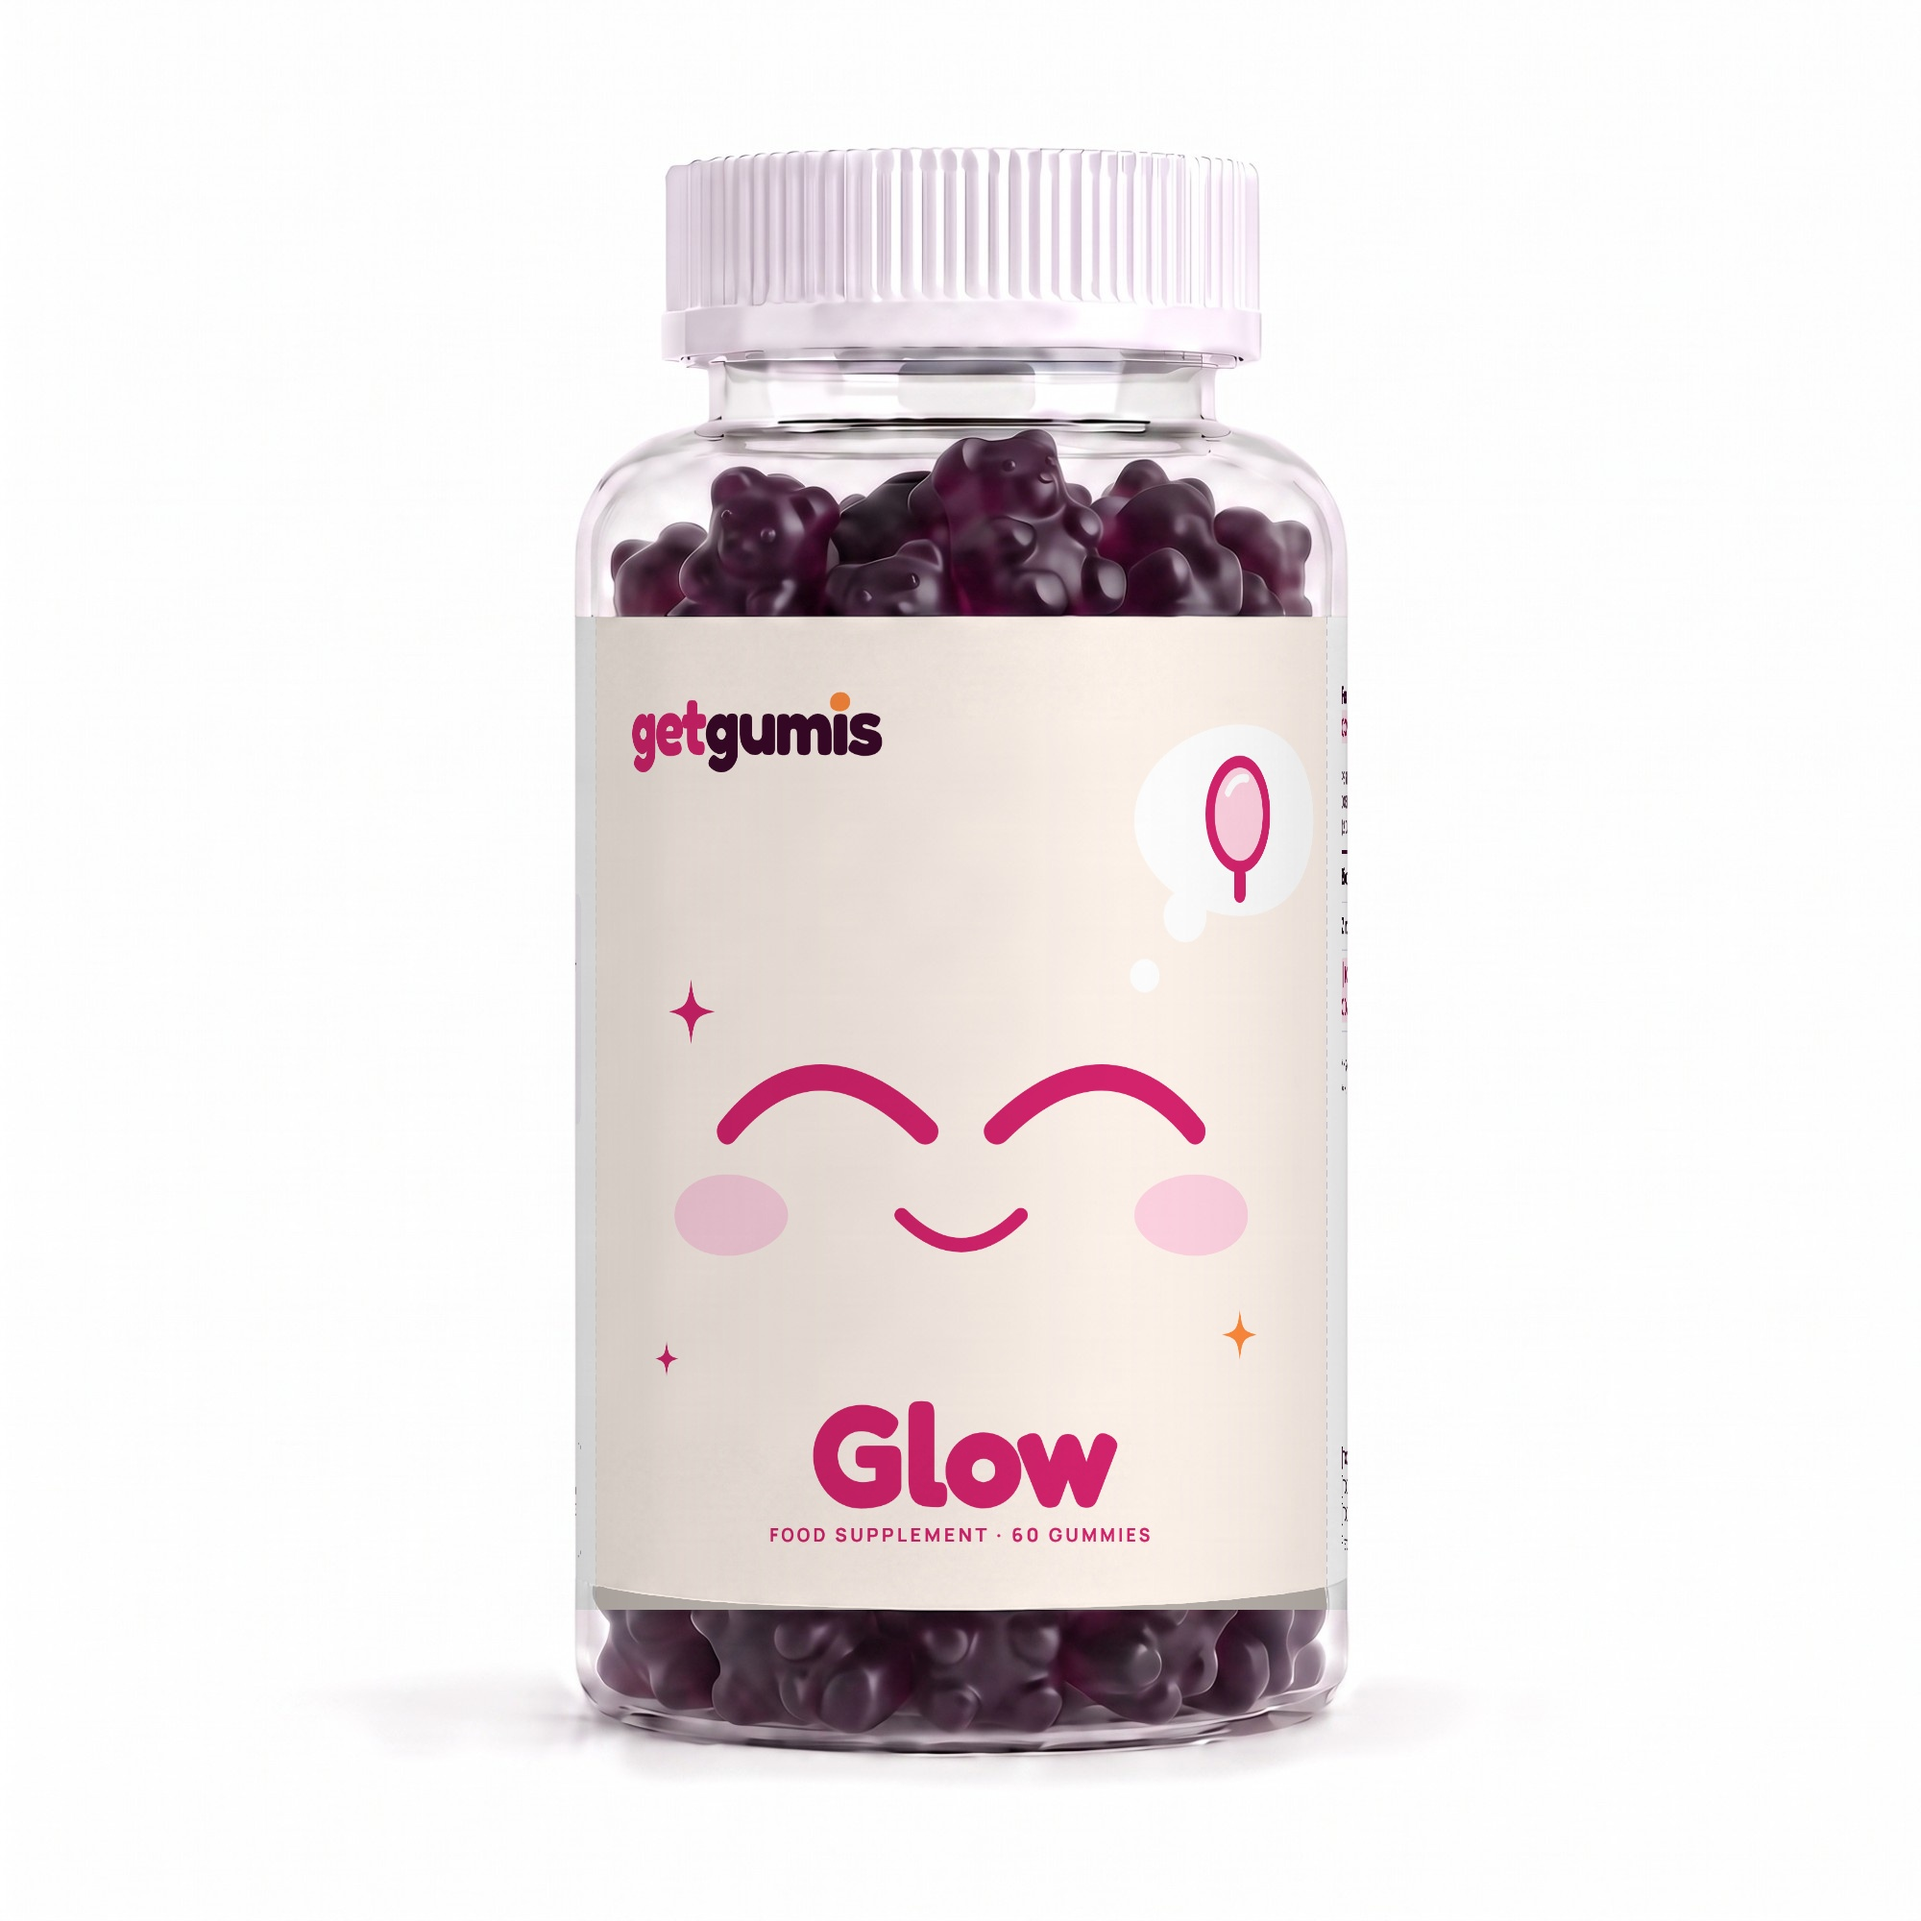
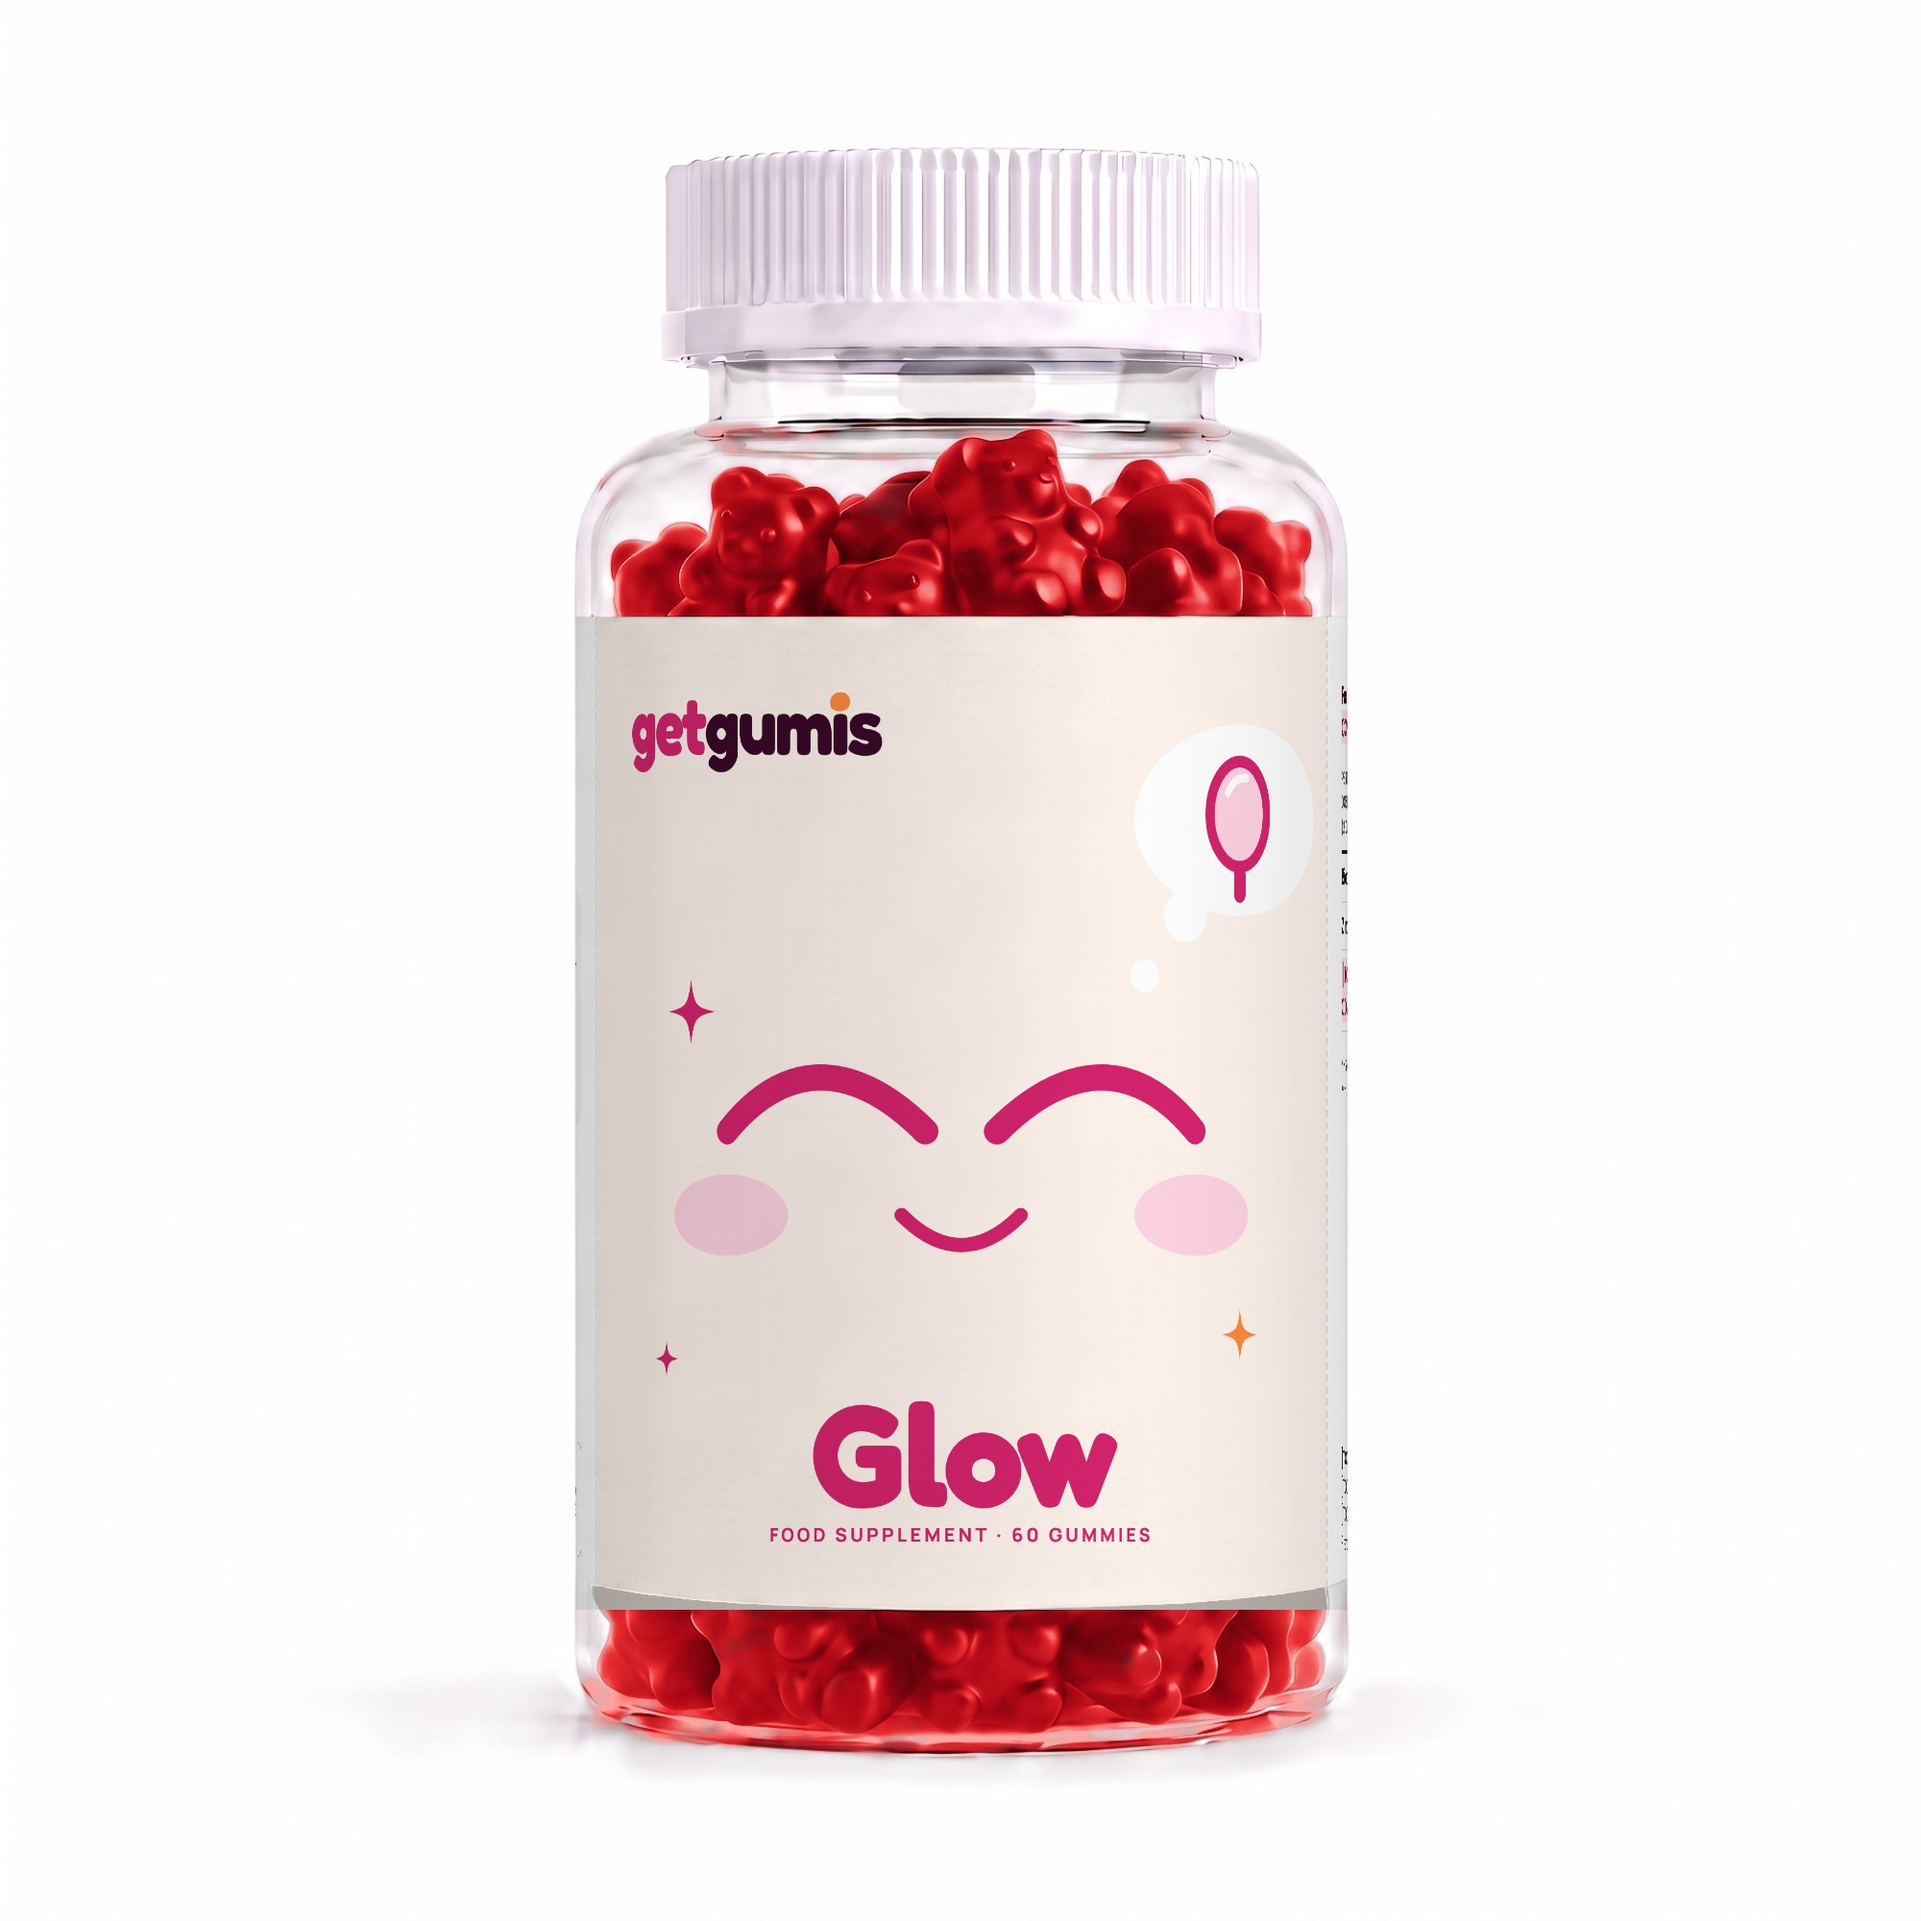
Gummy colours per product: Glow red, Power blue (Sleep stays dark berry)
Recoloured the gummies inside the bottle photo (docs/labels/recolor.py), re-wrapped
the final labels, rebuilt the transparent PNGs, range photo and theme bottle assets.

Claude-Session: https://claude.ai/code/session_01Lb2waSc8LLPK7JxRvkowDM

Changed region(s): [[0.31, 0.217, 0.682, 0.341], [0.31, 0.837, 0.713, 0.93]]

diff --git a/docs/labels/recolor.py b/docs/labels/recolor.py
@@ -1,0 +1,29 @@
+# Recolour the gummies in the bottle photo (outside the label area) to a target colour ramp.
+from PIL import Image, ImageFilter
+import numpy as np, sys
+src, out, name = sys.argv[1], sys.argv[2], sys.argv[3]
+RAMPS = {  # (t, rgb) stops, t = normalised gummy luminance
+  'red':  [(0, (60, 0, 6)), (0.35, (175, 8, 22)), (0.7, (235, 45, 50)), (1, (255, 165, 160))],
+  'blue': [(0, (12, 52, 85)), (0.35, (45, 125, 175)), (0.7, (95, 170, 210)), (1, (195, 232, 246))],
+}
+b = np.asarray(Image.open(src).convert('RGB')).astype(np.float32)
+R, G, B = b[..., 0], b[..., 1], b[..., 2]
+chroma = (R + B) / 2 - G
+w = np.clip((chroma - 4) / 9, 0, 1)
+H, W = w.shape
+yy, xx = np.mgrid[0:H, 0:W]
+region = ((yy > 440) & (yy < 645) | (yy > 1672) & (yy < 1860)) & (xx > 585) & (xx < 1415)
+L0 = 0.3 * R + 0.59 * G + 0.11 * B
+inner = (xx > 625) & (xx < 1375)
+w = np.maximum(w, np.clip((48 - L0) / 18, 0, 1) * inner)   # near-black gummies
+w = w * np.clip((215 - L0) / 30, 0, 1)                     # keep pale glass untouched
+w = w * region
+w = np.asarray(Image.fromarray((w * 255).astype(np.uint8)).filter(ImageFilter.GaussianBlur(1.5))).astype(np.float32) / 255
+L = 0.3 * R + 0.59 * G + 0.11 * B
+t = np.clip((L - 8) / 150, 0, 1) ** 0.8
+stops = RAMPS[name]
+ts = np.array([s[0] for s in stops]); cs = np.array([s[1] for s in stops], np.float32)
+new = np.stack([np.interp(t, ts, cs[:, k]) for k in range(3)], -1)
+res = b * (1 - w[..., None]) + new * w[..., None]
+Image.fromarray(np.clip(res, 0, 255).astype(np.uint8)).save(out, quality=95)
+print('ok', out)
